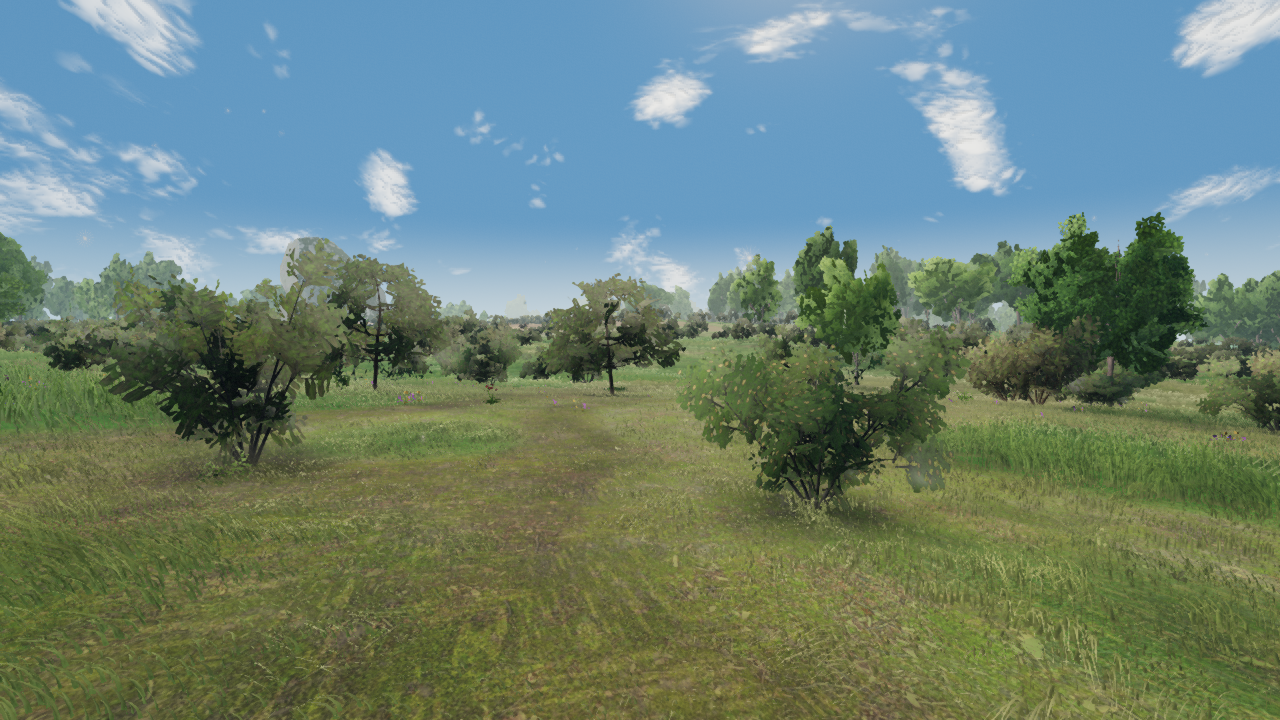
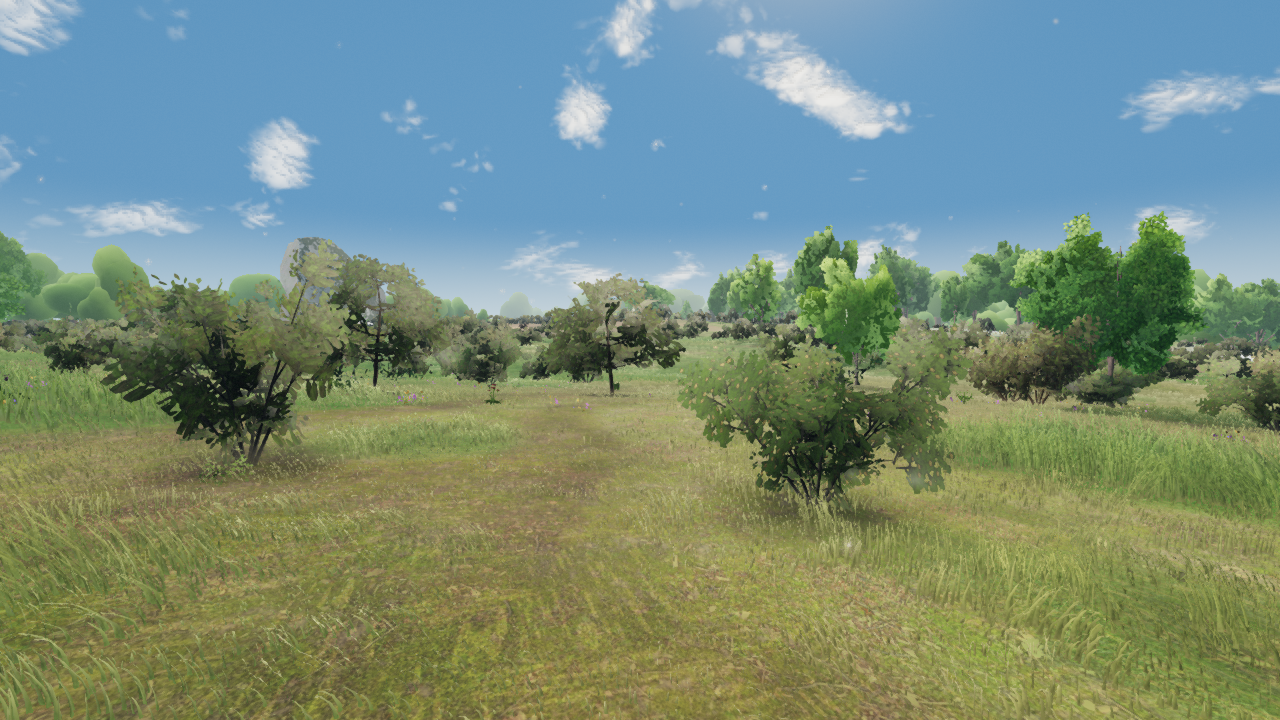
Clear the woodland storm wash and close bark ambient under canopy (WSC PR 9)
The storm fog targeted 150 m visibility, so FogExp2 laid ~57 % fog at 80 m
and greyed Stillmeadow's wood into a flat sheet. The rain ladder now sits
near real rain (storm 400 m) and a daylight rainstorm opens the exposure
x1.8, as snow country stops it down, so the storm floor under canopy reads
instead of going black. A full canopy takes 85 % of the bark and stone sky
fill. The PR 9 capture gains --hours and D01/D09 trunk shots.

diff --git a/src/editor/stylized/sky/stormAirLook.js b/src/editor/stylized/sky/stormAirLook.js
@@ -12,8 +12,13 @@ import { stormLadder } from './SkyLook.js';
  * becomes a whiteout: the fog band rises to the zenith and the sun and stars go.
  */
 
-/** Metres seen at 5 % contrast per level (clear, light, moderate, heavy, storm). */
-const RAIN_VISIBILITY = Object.freeze([Infinity, 1500, 600, 250, 150]);
+/**
+ * Metres seen at 5 % contrast per level (clear, light, moderate, heavy, storm), near
+ * real rain (light > 4 km, a downpour a few hundred metres). A 150 m storm left ~57 %
+ * fog at 80 m and greyed a woodland view flat; 400 m keeps ~11 % there, so the near
+ * trees read and only the far valley goes.
+ */
+const RAIN_VISIBILITY = Object.freeze([Infinity, 4000, 1500, 700, 400]);
 /**
  * A blizzard keeps its near field: FogExp2 at 140 m leaves ~20 % fog at 40 m and
  * ~60 % at 80 m, so footing and rocks read and only the distance goes; the flakes
@@ -24,6 +29,13 @@ const SNOW_STORM_VISIBILITY = 140;
 const CONTRAST_DISTANCE = 1.73;
 const RAIN_FOG = '#4a535c';
 const SNOW_FOG = '#dde4ec';
+/**
+ * Exposure a daylight rainstorm opens to, as a share of the look's: the eye (and a
+ * camera) opens up under a dark deck as it stops down for snow (`snowCountryLook`).
+ * The 150 m fog used to stand in for this by greying the wood; without it a storm
+ * floor under canopy read black. The sky follows only a quarter of it.
+ */
+const RAIN_EXPOSURE = 1.8;
 /** Night scale of the storm fog colours, linear (≈ ×0.35 in sRGB): a storm at night stays dark. */
 const NIGHT_FOG = 0.1;
 
@@ -61,7 +73,8 @@ export function stormAirLook(look, { storm = 0, snowShare = 0 } = {}, baseFogDen
   if (baseFogDensity > 0) {
     result.fogDensityScale = Math.max(look.fogDensityScale, stormFogDensity(s, share) / baseFogDensity);
   }
-  const night = 1 - (1 - NIGHT_FOG) * clamp01(look.nightness ?? (look.night ? 1 : 0));
+  const nightness = clamp01(look.nightness ?? (look.night ? 1 : 0));
+  const night = 1 - (1 - NIGHT_FOG) * nightness;
   fogB.set(RAIN_FOG).lerp(fogA.set(SNOW_FOG), share).multiplyScalar(night);
   result.fogColor = `#${fogA.set(look.fogColor).lerp(fogB, 0.85 * smoothstep(0.2, 1, s)).getHexString()}`;
   // The dome sinks into the murk with the far trees, or the horizon draws a seam.
@@ -71,5 +84,8 @@ export function stormAirLook(look, { storm = 0, snowShare = 0 } = {}, baseFogDen
   result.whiteout = Math.max(look.whiteout ?? 0, whiteout);
   // Snow light comes from everywhere: the white air lifts the ambient the cloud took.
   result.ambientIntensity = look.ambientIntensity * (1 + 0.35 * share * s);
+  // Rain only, by day: snow air is already bright, and a night storm stays dark.
+  const open = (RAIN_EXPOSURE - 1) * smoothstep(0.2, 1, s) * (1 - share) * (1 - nightness);
+  result.exposure = (look.exposure ?? 1) * (1 + open);
   return result;
 }

diff --git a/test/storm-atmosphere.test.js b/test/storm-atmosphere.test.js
@@ -52,9 +52,9 @@ test('cloud 0.55 closes over half of the way to the lid (was squared)', () => {
 test('storm fog meets the visibility targets and never thins a look', () => {
   const visibility = (s, share) => 1.73 / stormFogDensity(s, share);
   assert.equal(stormFogDensity(0), 0);
-  assert.ok(Math.abs(visibility(0.25, 0) - 1500) < 1e-6);
-  assert.ok(Math.abs(visibility(0.75, 0) - 250) < 1e-6);
-  assert.ok(Math.abs(visibility(1, 0) - 150) < 1e-6);
+  assert.ok(Math.abs(visibility(0.25, 0) - 4000) < 1e-6);
+  assert.ok(Math.abs(visibility(0.75, 0) - 700) < 1e-6);
+  assert.ok(Math.abs(visibility(1, 0) - 400) < 1e-6);
   assert.ok(Math.abs(visibility(1, 1) - 140) < 1e-6);
   const hazy = { ...day, fogDensityScale: 3 };
   assert.equal(stormAirLook(hazy, { storm: 0.25, snowShare: 0 }, 0.0015).fogDensityScale, 3, 'light rain keeps a hazier look');
@@ -75,6 +75,10 @@ test('rain fog greys toward dark blue-grey, snow toward white with a whiteout', 
   assert.ok(snow.ambientIntensity > rain.ambientIntensity, 'white air lifts the light');
   const night = stormAirLook({ ...day, nightness: 1, fogColor: '#1a2230' }, { storm: 1, snowShare: 1 }, 0.0015);
   assert.ok(luminance(night.fogColor) < luminance(snow.fogColor) * 0.5, 'a night blizzard stays dark');
+  assert.ok(Math.abs(rain.exposure / (day.exposure ?? 1) - 1.8) < 1e-9, 'the eye opens under a daylight storm');
+  assert.equal(snow.exposure, day.exposure ?? 1, 'snow air needs no opening');
+  const nightRain = stormAirLook({ ...day, nightness: 1 }, { storm: 1, snowShare: 0 }, 0.0015);
+  assert.equal(nightRain.exposure, day.exposure ?? 1, 'a night storm stays dark');
 });
 
 test('the controller lays the storm over the look and settles', () => {

diff --git a/src/editor/stylized/worldSurfaceContext/WorldSurfaceAmbient.js b/src/editor/stylized/worldSurfaceContext/WorldSurfaceAmbient.js
@@ -14,8 +14,8 @@ import { float, mix, vec3 } from 'three/tsl';
  *
  * Outside the WSC window (validity 0) both terms are exactly the old ones.
  */
-/** Share of the sky fill a full canopy overhead takes away. */
-export const AMBIENT_CANOPY_OCCLUSION = 0.65;
+/** Share of the sky fill a full canopy overhead takes away: a trunk in a closed wood sees about a seventh of the sky. */
+export const AMBIENT_CANOPY_OCCLUSION = 0.85;
 /** Share a fully occluded foot (WSC contact) takes away on top of that. */
 export const AMBIENT_CONTACT_OCCLUSION = 0.35;
 /** The ground albedo the hemisphere's ground colour stands for (linear). */

diff --git a/docs/plans/world-surface-context-architecture-roadmap-2026-11-27.md b/docs/plans/world-surface-context-architecture-roadmap-2026-11-27.md
@@ -72,7 +72,7 @@ PR 0 (`054d0d44`) validated every architectural hypothesis and introduced **one 
 | **PR 6** | **Bidirectional Ecological Footprints** *(Complete: `edb2fdc1`)* | One shared lobed footprint outline and phase (`groundContact/ecologicalFootprint.js`) for the meadow root-zone grass clearing and the trunk/bush/stone contact-shade duff (`contactShade.js`, trig-free per texel); multi-radius trunk footprints adding a canopy-weighted root-disturbance litter ring (`rootLitter*` in `contactShade` settings, `forestFloorTexture.b`); WSC `eco.a` vegetation coverage now carries trunk/stone grass suppression (`contactGrassSuppression`). Moisture deferred (no free eco channel). | Unit gate `tests/worldSurfaceContextPr6.test.js` (lobed iso-lines match the meadow outline; wide vs narrow lobe > 20/255 at equal distance); hardware captures ([pr-06](../qa/world-surface-context/pr-06/README.md)) show irregular patches in B02-C03 `D08`; paint cost 1.21 → 1.28 ms + 1.15 ms litter per 500-tree chunk. Trees-hidden top-down `D08` ([contact-gaps QA](../qa/world-surface-context/contact-gaps/README.md)) showed every footprint was one stamped triangle (a single 3rd harmonic); footprints are now per-placement mixes of the 1st/2nd/3rd/5th harmonics (±0.34), and the same view exposed and fixed chunk-edge seams in the forest floor, material bake and surface mask. |
 | **PR 7** | **Settlements, Foundations & Roads** *(Complete: `b1e36fce`, tuned in the QA commit)* | Town walls meet the ground through the WSC `foundation` contact profile (`render/materials/townGroundContact.js`, wired in `townGrade.js`): the band follows the terrain height at the foot in a soil derived from the WSC terrain albedo (town-ground hue, value pulled halfway to `TOWN_GROUND`), and only vertices within 2.5 m of the ground line fetch the WSC (8 `textureLoad`s inside a vertex branch, one varying). Earth paving (lanes, gate approaches, building aprons) takes the same soil; `TOWN_GROUND` is only the fallback beyond the WSC window (`DEF-13`). Apron rims swell with plan-space noise instead of a ruled margin. Road shoulders/verges were already carried by the path paint's tread/verge split and are unchanged. | Unit gate `tests/worldSurfaceContextPr7.test.js`; hardware captures [pr-07](../qa/world-surface-context/pr-07/README.md) (`B14-C05`, `B14-C06`, `B18`) with a before/after of the B18 wall foot; `settlement-approach` perf: only fully valid run 73.3 FPS (PR 7), paired runs 71.5 → 70.4, low outliers in both arms from GPU contention. |
 | **PR 8** | **Shared Environmental Coatings** *(Complete: `f3f136d9`, `207ab467`)* | One coverage contract (`surfaceCoatings/CoatCoverage.js`): rocks, alpine crags and snow caps, trunks, deadwood, the town kit, workshop houses, settlement snow and the terrain's baked snow publish the moss/snow/wet masks they lay (WeakMap, inherited at clone sites; `userData` died in `clone()`). One moss pigment (`surfaceCoatings.moss.palette`) replaces three per-material palettes; deadwood moss and trunk/deadwood snow are coats (colour, roughness, normal), not colour mixes. B17's boulder foot is a wind-swung drift with a clinging band (`snowDeposition.js`), alongside another agent's concurrent snow-cap geometry and cool contact AO. Mud/dust stays per surface. | `D22` upgraded to full ("Moss coat coverage", each surface's published coverage drawn in a clone of its own material) and `D23` made real; hardware captures ([pr-08](../qa/world-surface-context/pr-08/README.md)) show B17's thin uniform white rim replaced by banked, capped snow; `tests/worldSurfaceContextPr8.test.js`. |
-| **PR 9** | **Lighting & Spatial Ground-Bounce Integration** *(Complete, partial gate)* | Spatial ambient for stones and bark (`worldSurfaceContext/WorldSurfaceAmbient.js`): canopy and contact from the WSC scale the sky fill, the local ground's albedo colours the bounce (hemisphere energy kept), one vertex fetch in one packed varying, exact parity outside the window; far impostors opt out. Cloud cover turns sun into sky light (`overcastSkyLook`: ambient ×1.6 at full cover, storm ladder still darkens, total light still falls). Ponlai PR-G probe GI stays a spec (its PR F dependency is absent); buildings keep their fill. | Gallery F re-measured ([pr-09](../qa/world-surface-context/pr-09/README.md)): rain on open ground +31 %, overcast +9 %, sunlit hours unchanged; woodland trunk-over-floor glow in D17 3.7× → 3.1×. Not met: woodland rain stays a grey wash (valley mist, not sky fog), bark still ~3× its floor (`BARK_FILL`, under concurrent rework); `DEF-14`'s black woodland twilight from PR 0 no longer reproduces (sunset woodland 0.0097 linear, readable). |
+| **PR 9** | **Lighting & Spatial Ground-Bounce Integration** *(Complete)* | Spatial ambient for stones and bark (`worldSurfaceContext/WorldSurfaceAmbient.js`): canopy and contact from the WSC scale the sky fill, the local ground's albedo colours the bounce (hemisphere energy kept), one vertex fetch in one packed varying, exact parity outside the window; far impostors opt out. Cloud cover turns sun into sky light (`overcastSkyLook`: ambient ×1.6 at full cover, storm ladder still darkens, total light still falls). Ponlai PR-G probe GI stays a spec (its PR F dependency is absent); buildings keep their fill. Storm air (`stormAirLook`): rain visibility near real rain (storm 400 m, was 150 m) and a daylight rainstorm opens the exposure ×1.8; a full canopy takes 85 % of the sky fill. | Gallery F re-measured ([pr-09](../qa/world-surface-context/pr-09/README.md)): rain on open ground +31 %, overcast +9 %, sunlit hours unchanged; woodland trunk-over-floor glow in D17 3.7× → 3.1×. Follow-up: woodland rain wash was the storm fog (0.0589 → 0.0097, near trunks read); grassland rain 0.0149 → 0.0342; bark's D17 lead is 2.05× albedo × ~1.5× light (vertical face under an open-sided wood). `DEF-14`'s black woodland twilight from PR 0 no longer reproduces (sunset woodland 0.0097 linear, readable). |
 
 ---
 

diff --git a/docs/qa/world-surface-context/pr-09/README.md b/docs/qa/world-surface-context/pr-09/README.md
@@ -4,7 +4,9 @@ Captured with `node scripts/run-wsc-pr9-qa.mjs` (shared frozen-server harness; h
 RTX 4080). Before = clean export of `0eb364df`; after = that plus this PR's changes only.
 Grassland `B01-C01` and Stillmeadow's woodland approach `B14-C01` at sunrise, clear noon,
 overcast, sunset (plus D16 direct-only and D17 indirect-only) and rain; trunk bases and
-understory under the canopy (`B14-C03`, `B14-C04`) at noon in D00 and D17.
+understory under the canopy (`B14-C03`, `B14-C04`) at noon in D00, D01 albedo, D09 canopy and
+D17. The frames in this folder are the follow-up's (below), one condition per run
+(`--scenes … --hours …`): the shared GPU lost the device partway through full sweeps.
 
 [pr9-contact-sheet.jpg](pr9-contact-sheet.jpg) rows: grassland, woodland; columns sunrise,
 clear, overcast, sunset D00 / D16 / D17, rain.
@@ -43,15 +45,31 @@ clear, overcast, sunset D00 / D16 / D17, rain.
   and contact attenuation, local bounce hue and cap, one vertex-stage fetch per receiver, and the
   overcast energy rule.
 
+## Follow-up: storm air and bark (2026-11-27)
+
+- **Woodland rain was a grey wash, from the storm fog.** `stormAirLook` closes the fog to a
+  visibility target per storm level; the storm target was 150 m, so FogExp2 laid ~57 % fog at
+  80 m and turned a wood into a flat grey sheet (scale 461 × the near-view base density; with the
+  fog removed the same frame was 18× darker). Valley mist, weather rain and particles were each
+  under 1 %. The ladder is now near real rain — light 4 km, moderate 1.5 km, heavy 700 m, storm
+  400 m (~11 % fog at 80 m); the 140 m blizzard is unchanged.
+- **That fog was hiding a black storm floor, so a daylight rainstorm now opens the exposure**
+  ×1.8, as snow country stops it down; the sky follows a quarter of it, and snow and night storms
+  are untouched.
+- [storm-before-after.jpg](storm-before-after.jpg): woodland rain 0.0589 → 0.0097, woodland
+  overcast 0.0627 → 0.013–0.027 (the near trunks and shrubs read, only the far wood fades),
+  grassland rain 0.0149 → 0.0342 (overcast 0.0851 > rain, so storms still darken).
+- **Bark under canopy.** A full canopy now takes 85 % of the sky fill (was 65 %): a trunk in a
+  closed wood sees about a seventh of the sky. The D17 glow was mostly albedo, not light:
+  [trunk-modes.jpg](trunk-modes.jpg) shows the bark is 2.05× its litter floor in D01, and lit
+  (D00) the trunk is 3.1× its floor, leaving ~1.5× more light on a vertical face that sees the
+  open sides of the wood than on a floor under the crowns.
+- Run-to-run noise between single-condition captures is ±30 % on unchanged conditions (grassland
+  clear 0.15–0.22 from grass growth and settle framing), so only the storm changes above are
+  read as effects.
+
 ## Not resolved
 
-- **Woodland under rain is a flat grey wash** (woodland/grassland ratio 4.0 in rain, 0.76
-  overcast). It is not the sky fog density: making overcast add rather than multiply regional
-  haze changed it by 3 % and was reverted. It is most likely the valley mist pooling in
-  Stillmeadow's low ground; tuning that is a separate atmospheric pass.
-- **Bark still reads 3× its floor in indirect light.** The canopy attenuation is proportional
-  to measured canopy; the remaining gap is `BARK_FILL` itself, which another session is
-  retuning with the crown lighting in the same file.
 - **No probe GI.** Ponlai PR-G (SH9 bounce probes) remains a specification; its PR F dependency
   does not exist. This PR is the WSC-scale stand-in it describes for stones and bark only;
   buildings keep their fill (owned by the settlement work).
